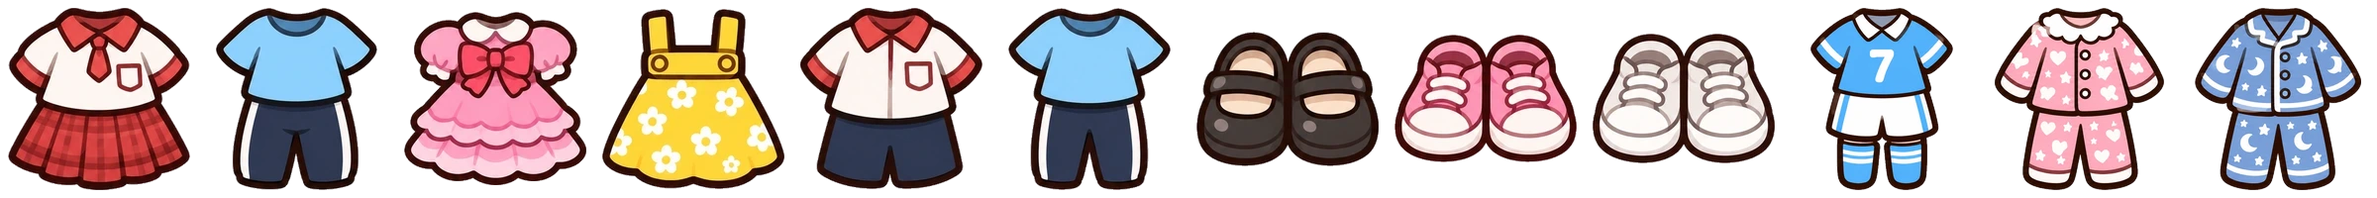
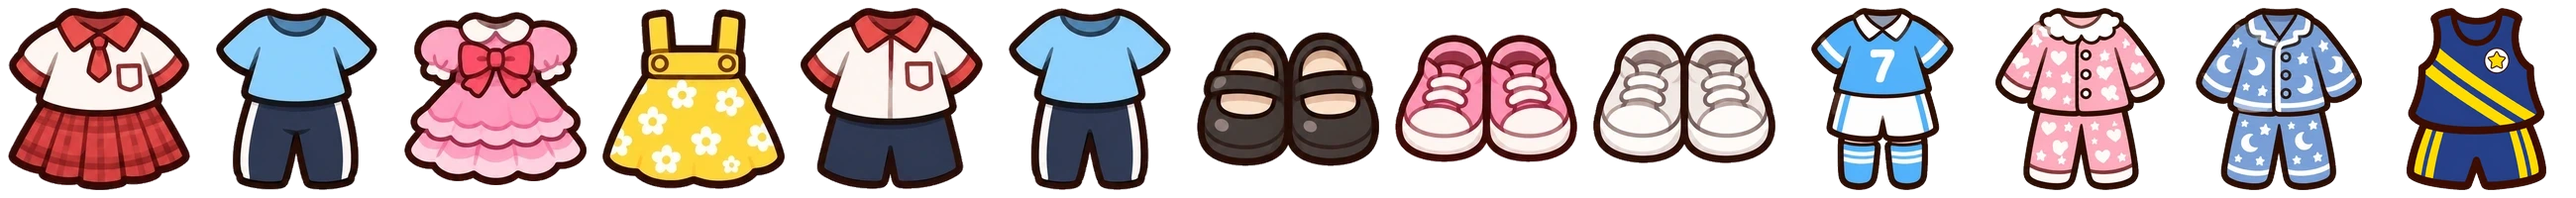
New outfit: girls' gymnastics kit (blue tank with yellow stripes, barefoot), all hairstyles
Claude-Session: https://claude.ai/code/session_01WYXHXwKxHQowMAYmWZLpUL

diff --git a/index.html b/index.html
@@ -372,7 +372,7 @@ document.addEventListener('visibilitychange',()=>{if(document.hidden)window.__hi
 // ---- UI icon set (ui_icons.webp, 18 cells in one row) — emoji are shown until it loads ----
 // bump ASSET_V whenever an icon/emote picture changes, so phones download the new one instead of a cached copy
 var ASSET_V='20261122g';
-/*VER*/var VER={"anchors_girl.json":"a61bb18a","apple-touch-icon.png":"8afecd75","chat_icons.webp":"eef4836c","clean.webp":"40da9286","emotes.webp":"e155c1f5","favicon.png":"ffcd656e","food.webp":"e79c35e3","furn_wardrobe.webp":"66d529f7","ground.webp":"846df7f5","hats.webp":"3bcde764","home_house.webp":"c1874d6b","home_house_s.webp":"7b5eb322","home_yard.webp":"acf49b25","home_yard_s.webp":"25b9ca81","hp_bushL.webp":"32944512","hp_bushR.webp":"5160de6a","hp_dogh.webp":"5476c7b8","hp_gate.webp":"b75aef05","hp_wallD.webp":"6b2f16ac","ice.webp":"9f59ce49","icon192.png":"64c4261d","icon512.png":"559bfbe5","items.webp":"dca2f87e","logo.webp":"80b743a8","logo_s.webp":"2cfc803b","moods.webp":"39f53ba6","pets/alpaca_sheet.webp":"660da134","pets/arctic_fox_sheet.webp":"b3f5f075","pets/axolotl_sheet.webp":"7c90f54d","pets/baby_panda_sheet.webp":"3050fd00","pets/baby_penguin_sheet.webp":"0be125bd","pets/bearded_dragon_sheet.webp":"a33b338f","pets/black_cat_sheet.webp":"df4daea9","pets/budgie_sheet.webp":"af9687c7","pets/calico_cat.webp":"985d1735","pets/calico_cat_sheet.webp":"da3dfdc4","pets/capybara_sheet.webp":"159c59a4","pets/chameleon_sheet.webp":"21b6cb11","pets/chihuahua_sheet.webp":"2b56a953","pets/chinchilla_sheet.webp":"196f06a2","pets/cockatoo_sheet.webp":"0d9c00ba","pets/corgi_sheet.webp":"29f029ee","pets/fennec_fox_sheet.webp":"03314e07","pets/french_bulldog_sheet.webp":"f7703c89","pets/golden_pup_sheet.webp":"7ba0e17a","pets/guinea_pig_sheet.webp":"e88e2be5","pets/hamster_sheet.webp":"e311a06a","pets/hedgehog_sheet.webp":"1a546ae7","pets/holland_lop_sheet.webp":"df3106bb","pets/husky_sheet.webp":"e145a47a","pets/koala_sheet.webp":"b30e68fb","pets/leopard_gecko_sheet.webp":"1153c7bf","pets/macaw_sheet.webp":"987521b4","pets/meerkat_sheet.webp":"9fcec931","pets/mini_pig_sheet.webp":"34883582","pets/orange_cat_sheet.webp":"a0b5c763","pets/otter_sheet.webp":"d64bdee5","pets/owl_fly.webp":"58a75cfa","pets/owl_sheet.webp":"1d3f8e0c","pets/persian_sheet.webp":"c3488f71","pets/pomeranian_sheet.webp":"06d57221","pets/red_panda_sheet.webp":"0c02c808","pets/scottish_fold_sheet.webp":"be89b9fa","pets/sheep_sheet.webp":"4bb9091f","pets/shiba_sheet.webp":"40577f29","pets/sloth.webp":"f60c8a5e","pets/sloth_sheet.webp":"18c21add","pets/snowy_owl_fly.webp":"dfc4612b","pets/snowy_owl_sheet.webp":"ea3517ee","pets/squirrel_sheet.webp":"6f32fea3","pets/sugar_glider_sheet.webp":"1f85556d","pets/tabby_cat_sheet.webp":"c8fea378","pets/thai_pup_sheet.webp":"b6c3519b","pets/turtle_sheet.webp":"6aa14448","pets/white_cat_sheet.webp":"1183e037","school_gate.webp":"4b3af634","school_main.webp":"c1496493","school_wing.webp":"95a3c264","school_wing_left.webp":"39c089cf","sprites/boy_dress_football/act.webp":"94b0b947","sprites/boy_dress_football/down.webp":"a43a9e53","sprites/boy_dress_football/dr.webp":"89cd4a4d","sprites/boy_dress_football/idle.webp":"3cc2e188","sprites/boy_dress_football/right.webp":"cd18aa2c","sprites/boy_dress_football/up.webp":"7013d474","sprites/boy_dress_football/ur.webp":"899248f9","sprites/boy_dress_football_mushroom/act.webp":"544be128","sprites/boy_dress_football_mushroom/down.webp":"dc370a23","sprites/boy_dress_football_mushroom/dr.webp":"6873c7f5","sprites/boy_dress_football_mushroom/idle.webp":"a4cc99b1","sprites/boy_dress_football_mushroom/right.webp":"73478d8a","sprites/boy_dress_football_mushroom/up.webp":"f5e6fc17","sprites/boy_dress_football_mushroom/ur.webp":"72f69a5d","sprites/boy_dress_football_spiky/act.webp":"0b64a86f","sprites/boy_dress_football_spiky/down.webp":"1ba15215","sprites/boy_dress_football_spiky/dr.webp":"6d201da1","sprites/boy_dress_football_spiky/idle.webp":"f7051778","sprites/boy_dress_football_spiky/right.webp":"f62cf71a","sprites/boy_dress_football_spiky/up.webp":"f2da5d33","sprites/boy_dress_football_spiky/ur.webp":"9c000efe","sprites/boy_dress_pajama/act.webp":"91cd443b","sprites/boy_dress_pajama/down.webp":"c05554fd","sprites/boy_dress_pajama/dr.webp":"a3becfd1","sprites/boy_dress_pajama/idle.webp":"3d247613","sprites/boy_dress_pajama/right.webp":"2a2d1811","sprites/boy_dress_pajama/up.webp":"5f0c40b7","sprites/boy_dress_pajama/ur.webp":"525fac6a","sprites/boy_dress_pajama_mushroom/act.webp":"c527d2b3","sprites/boy_dress_pajama_mushroom/down.webp":"bd3afb82","sprites/boy_dress_pajama_mushroom/dr.webp":"7ddefa6d","sprites/boy_dress_pajama_mushroom/idle.webp":"d0ba0ad5","sprites/boy_dress_pajama_mushroom/right.webp":"35d53926","sprites/boy_dress_pajama_mushroom/up.webp":"df64b951","sprites/boy_dress_pajama_mushroom/ur.webp":"341aca78","sprites/boy_dress_pajama_spiky/act.webp":"6490988f","sprites/boy_dress_pajama_spiky/down.webp":"66fb7e2d","sprites/boy_dress_pajama_spiky/dr.webp":"9831c29a","sprites/boy_dress_pajama_spiky/idle.webp":"14aecb10","sprites/boy_dress_pajama_spiky/right.webp":"2047c970","sprites/boy_dress_pajama_spiky/up.webp":"2e8137f6","sprites/boy_dress_pajama_spiky/ur.webp":"aa8c9ba5","sprites/boy_school/act.webp":"6c98d340","sprites/boy_school/down.webp":"c8e165f1","sprites/boy_school/dr.webp":"1e5bba8b","sprites/boy_school/idle.webp":"29fb5e68","sprites/boy_school/right.webp":"443403b0","sprites/boy_school/up.webp":"29288f23","sprites/boy_school/ur.webp":"32867ba4","sprites/boy_school_mushroom/act.webp":"a5b6cacb","sprites/boy_school_mushroom/down.webp":"12d3c8dd","sprites/boy_school_mushroom/dr.webp":"2e261109","sprites/boy_school_mushroom/idle.webp":"ed928290","sprites/boy_school_mushroom/right.webp":"f235e36d","sprites/boy_school_mushroom/up.webp":"042d27f4","sprites/boy_school_mushroom/ur.webp":"3218d4c5","sprites/boy_school_spiky/act.webp":"bc26ba56","sprites/boy_school_spiky/down.webp":"76c42712","sprites/boy_school_spiky/dr.webp":"bffeee5a","sprites/boy_school_spiky/idle.webp":"4478f2ea","sprites/boy_school_spiky/right.webp":"1e7d459e","sprites/boy_school_spiky/up.webp":"99ea5e6b","sprites/boy_school_spiky/ur.webp":"3b65ff3f","sprites/boy_sport/act.webp":"dba0f6bc","sprites/boy_sport/down.webp":"f58f944f","sprites/boy_sport/dr.webp":"3cecf0d9","sprites/boy_sport/idle.webp":"995431f6","sprites/boy_sport/right.webp":"83d32eaf","sprites/boy_sport/up.webp":"da39c524","sprites/boy_sport/ur.webp":"186047f2","sprites/boy_sport_mushroom/act.webp":"c558e928","sprites/boy_sport_mushroom/down.webp":"49800db6","sprites/boy_sport_mushroom/dr.webp":"e7edcac9","sprites/boy_sport_mushroom/idle.webp":"3ccd4cc2","sprites/boy_sport_mushroom/right.webp":"4464f34f","sprites/boy_sport_mushroom/up.webp":"9cadc1a2","sprites/boy_sport_mushroom/ur.webp":"35ed1308","sprites/boy_sport_spiky/act.webp":"ee11820c","sprites/boy_sport_spiky/down.webp":"6abba58a","sprites/boy_sport_spiky/dr.webp":"7f172e95","sprites/boy_sport_spiky/idle.webp":"380f162b","sprites/boy_sport_spiky/right.webp":"3a26df49","sprites/boy_sport_spiky/up.webp":"ef02e34d","sprites/boy_sport_spiky/ur.webp":"dd3b8304","sprites/girl_dress_pajama/act.webp":"cf9f97d6","sprites/girl_dress_pajama/down.webp":"35cc1387","sprites/girl_dress_pajama/dr.webp":"c8c0f74a","sprites/girl_dress_pajama/idle.webp":"0041015b","sprites/girl_dress_pajama/right.webp":"08e8db5e","sprites/girl_dress_pajama/up.webp":"7875dba7","sprites/girl_dress_pajama/ur.webp":"4d01d426","sprites/girl_dress_pajama_bob/act.webp":"d95442af","sprites/girl_dress_pajama_bob/down.webp":"c7f24fd5","sprites/girl_dress_pajama_bob/dr.webp":"feebca95","sprites/girl_dress_pajama_bob/idle.webp":"0167f086","sprites/girl_dress_pajama_bob/right.webp":"3f9af726","sprites/girl_dress_pajama_bob/up.webp":"423d0729","sprites/girl_dress_pajama_bob/ur.webp":"069db268","sprites/girl_dress_pajama_braids/act.webp":"c2f1ec21","sprites/girl_dress_pajama_braids/down.webp":"5c77ac02","sprites/girl_dress_pajama_braids/dr.webp":"af549cb8","sprites/girl_dress_pajama_braids/idle.webp":"8c03b34e","sprites/girl_dress_pajama_braids/right.webp":"c2531a8e","sprites/girl_dress_pajama_braids/up.webp":"51a70dbd","sprites/girl_dress_pajama_braids/ur.webp":"2d2e00b3","sprites/girl_dress_party/act.webp":"9138bef2","sprites/girl_dress_party/down.webp":"25db752a","sprites/girl_dress_party/dr.webp":"54a6d6bf","sprites/girl_dress_party/idle.webp":"53ede582","sprites/girl_dress_party/right.webp":"02fc7947","sprites/girl_dress_party/up.webp":"e228fc55","sprites/girl_dress_party/ur.webp":"470ed06c","sprites/girl_dress_party_bob/act.webp":"0ef8b37f","sprites/girl_dress_party_bob/down.webp":"891f8054","sprites/girl_dress_party_bob/dr.webp":"f067a217","sprites/girl_dress_party_bob/idle.webp":"37191bcb","sprites/girl_dress_party_bob/right.webp":"5ce7bcfd","sprites/girl_dress_party_bob/up.webp":"b691b3cd","sprites/girl_dress_party_bob/ur.webp":"6b19a966","sprites/girl_dress_party_braids/act.webp":"aeb8730e","sprites/girl_dress_party_braids/down.webp":"5e2b808f","sprites/girl_dress_party_braids/dr.webp":"0eadcd39","sprites/girl_dress_party_braids/idle.webp":"6dc51b9b","sprites/girl_dress_party_braids/right.webp":"99e13306","sprites/girl_dress_party_braids/up.webp":"2dd077ae","sprites/girl_dress_party_braids/ur.webp":"9a9a23c3","sprites/girl_dress_sunny/act.webp":"12917a10","sprites/girl_dress_sunny/down.webp":"4d3e47c1","sprites/girl_dress_sunny/dr.webp":"e8b5f47a","sprites/girl_dress_sunny/idle.webp":"69444255","sprites/girl_dress_sunny/right.webp":"bba8e683","sprites/girl_dress_sunny/up.webp":"6c89c294","sprites/girl_dress_sunny/ur.webp":"5be1f39a","sprites/girl_dress_sunny_bob/act.webp":"4d13130a","sprites/girl_dress_sunny_bob/down.webp":"48e1ee29","sprites/girl_dress_sunny_bob/dr.webp":"9464afe0","sprites/girl_dress_sunny_bob/idle.webp":"3110d282","sprites/girl_dress_sunny_bob/right.webp":"ede90b8b","sprites/girl_dress_sunny_bob/up.webp":"cd3d1387","sprites/girl_dress_sunny_bob/ur.webp":"d0bde949","sprites/girl_dress_sunny_braids/act.webp":"d49c4b14","sprites/girl_dress_sunny_braids/down.webp":"d8a7e6a6","sprites/girl_dress_sunny_braids/dr.webp":"d512d145","sprites/girl_dress_sunny_braids/idle.webp":"4dbc67db","sprites/girl_dress_sunny_braids/right.webp":"d16d2c22","sprites/girl_dress_sunny_braids/up.webp":"83153359","sprites/girl_dress_sunny_braids/ur.webp":"b50d119d","sprites/girl_school/act.webp":"409a8ab3","sprites/girl_school/down.webp":"2a09fcfd","sprites/girl_school/dr.webp":"0db9d4a6","sprites/girl_school/idle.webp":"f8ec4257","sprites/girl_school/right.webp":"444f8451","sprites/girl_school/up.webp":"1f72115e","sprites/girl_school/ur.webp":"376d1a00","sprites/girl_school_bob/act.webp":"67c24fc5","sprites/girl_school_bob/down.webp":"0513d14c","sprites/girl_school_bob/dr.webp":"1c7fc96b","sprites/girl_school_bob/idle.webp":"aa9332c0","sprites/girl_school_bob/right.webp":"5f0b3252","sprites/girl_school_bob/up.webp":"edea434c","sprites/girl_school_bob/ur.webp":"1548f603","sprites/girl_school_braids/act.webp":"85e148b0","sprites/girl_school_braids/down.webp":"c5799d83","sprites/girl_school_braids/dr.webp":"8b9da624","sprites/girl_school_braids/idle.webp":"14535324","sprites/girl_school_braids/right.webp":"9678497b","sprites/girl_school_braids/up.webp":"66e07c22","sprites/girl_school_braids/ur.webp":"1b568d69","sprites/girl_sport/act.webp":"bcd79e49","sprites/girl_sport/down.webp":"81891f23","sprites/girl_sport/dr.webp":"ce4e79a4","sprites/girl_sport/idle.webp":"af69343d","sprites/girl_sport/right.webp":"17d5242a","sprites/girl_sport/up.webp":"95c59fe5","sprites/girl_sport/ur.webp":"e104f775","sprites/girl_sport_bob/act.webp":"8cf50b81","sprites/girl_sport_bob/down.webp":"87df6564","sprites/girl_sport_bob/dr.webp":"e53a6deb","sprites/girl_sport_bob/idle.webp":"f35cc57c","sprites/girl_sport_bob/right.webp":"a5050c56","sprites/girl_sport_bob/up.webp":"73a5a7f8","sprites/girl_sport_bob/ur.webp":"5c597d21","sprites/girl_sport_braids/act.webp":"f96fc655","sprites/girl_sport_braids/down.webp":"c911017a","sprites/girl_sport_braids/dr.webp":"5b3ba77c","sprites/girl_sport_braids/idle.webp":"23b6d6b9","sprites/girl_sport_braids/right.webp":"7feeaf72","sprites/girl_sport_braids/up.webp":"059286f8","sprites/girl_sport_braids/ur.webp":"3c0716ff","sprites/zombie_boy/bite.webp":"ba078b4f","sprites/zombie_boy/down.webp":"fc0185ae","sprites/zombie_boy/dr.webp":"1fe36071","sprites/zombie_boy/idle.webp":"92e12d23","sprites/zombie_boy/right.webp":"53cbf802","sprites/zombie_boy/up.webp":"bf41f341","sprites/zombie_boy/ur.webp":"35cbe2c0","sprites/zombie_girl/bite.webp":"b56c0f9e","sprites/zombie_girl/down.webp":"c0623cf5","sprites/zombie_girl/dr.webp":"e186b369","sprites/zombie_girl/idle.webp":"34c89034","sprites/zombie_girl/right.webp":"e5af341e","sprites/zombie_girl/up.webp":"bd4b2779","sprites/zombie_girl/ur.webp":"679313ff","ui_icons.webp":"4e9aac93","ui_icons2.webp":"a81910d9","ui_icons3.webp":"1fbdf734","vercel.json":"56aa2b42"};/*END*/
+/*VER*/var VER={"anchors_girl.json":"15332d8e","apple-touch-icon.png":"8afecd75","chat_icons.webp":"eef4836c","clean.webp":"40da9286","emotes.webp":"e155c1f5","favicon.png":"ffcd656e","food.webp":"e79c35e3","furn_wardrobe.webp":"66d529f7","ground.webp":"846df7f5","hats.webp":"3bcde764","home_house.webp":"c1874d6b","home_house_s.webp":"7b5eb322","home_yard.webp":"acf49b25","home_yard_s.webp":"25b9ca81","hp_bushL.webp":"32944512","hp_bushR.webp":"5160de6a","hp_dogh.webp":"5476c7b8","hp_gate.webp":"b75aef05","hp_wallD.webp":"6b2f16ac","ice.webp":"9f59ce49","icon192.png":"64c4261d","icon512.png":"559bfbe5","items.webp":"e63906d7","logo.webp":"80b743a8","logo_s.webp":"2cfc803b","moods.webp":"39f53ba6","pets/alpaca_sheet.webp":"660da134","pets/arctic_fox_sheet.webp":"b3f5f075","pets/axolotl_sheet.webp":"7c90f54d","pets/baby_panda_sheet.webp":"3050fd00","pets/baby_penguin_sheet.webp":"0be125bd","pets/bearded_dragon_sheet.webp":"a33b338f","pets/black_cat_sheet.webp":"df4daea9","pets/budgie_sheet.webp":"af9687c7","pets/calico_cat.webp":"985d1735","pets/calico_cat_sheet.webp":"da3dfdc4","pets/capybara_sheet.webp":"159c59a4","pets/chameleon_sheet.webp":"21b6cb11","pets/chihuahua_sheet.webp":"2b56a953","pets/chinchilla_sheet.webp":"196f06a2","pets/cockatoo_sheet.webp":"0d9c00ba","pets/corgi_sheet.webp":"29f029ee","pets/fennec_fox_sheet.webp":"03314e07","pets/french_bulldog_sheet.webp":"f7703c89","pets/golden_pup_sheet.webp":"7ba0e17a","pets/guinea_pig_sheet.webp":"e88e2be5","pets/hamster_sheet.webp":"e311a06a","pets/hedgehog_sheet.webp":"1a546ae7","pets/holland_lop_sheet.webp":"df3106bb","pets/husky_sheet.webp":"e145a47a","pets/koala_sheet.webp":"b30e68fb","pets/leopard_gecko_sheet.webp":"1153c7bf","pets/macaw_sheet.webp":"987521b4","pets/meerkat_sheet.webp":"9fcec931","pets/mini_pig_sheet.webp":"34883582","pets/orange_cat_sheet.webp":"a0b5c763","pets/otter_sheet.webp":"d64bdee5","pets/owl_fly.webp":"58a75cfa","pets/owl_sheet.webp":"1d3f8e0c","pets/persian_sheet.webp":"c3488f71","pets/pomeranian_sheet.webp":"06d57221","pets/red_panda_sheet.webp":"0c02c808","pets/scottish_fold_sheet.webp":"be89b9fa","pets/sheep_sheet.webp":"4bb9091f","pets/shiba_sheet.webp":"40577f29","pets/sloth.webp":"f60c8a5e","pets/sloth_sheet.webp":"18c21add","pets/snowy_owl_fly.webp":"dfc4612b","pets/snowy_owl_sheet.webp":"ea3517ee","pets/squirrel_sheet.webp":"6f32fea3","pets/sugar_glider_sheet.webp":"1f85556d","pets/tabby_cat_sheet.webp":"c8fea378","pets/thai_pup_sheet.webp":"b6c3519b","pets/turtle_sheet.webp":"6aa14448","pets/white_cat_sheet.webp":"1183e037","school_gate.webp":"4b3af634","school_main.webp":"c1496493","school_wing.webp":"95a3c264","school_wing_left.webp":"39c089cf","sprites/boy_dress_football/act.webp":"94b0b947","sprites/boy_dress_football/down.webp":"a43a9e53","sprites/boy_dress_football/dr.webp":"89cd4a4d","sprites/boy_dress_football/idle.webp":"3cc2e188","sprites/boy_dress_football/right.webp":"cd18aa2c","sprites/boy_dress_football/up.webp":"7013d474","sprites/boy_dress_football/ur.webp":"899248f9","sprites/boy_dress_football_mushroom/act.webp":"544be128","sprites/boy_dress_football_mushroom/down.webp":"dc370a23","sprites/boy_dress_football_mushroom/dr.webp":"6873c7f5","sprites/boy_dress_football_mushroom/idle.webp":"a4cc99b1","sprites/boy_dress_football_mushroom/right.webp":"73478d8a","sprites/boy_dress_football_mushroom/up.webp":"f5e6fc17","sprites/boy_dress_football_mushroom/ur.webp":"72f69a5d","sprites/boy_dress_football_spiky/act.webp":"0b64a86f","sprites/boy_dress_football_spiky/down.webp":"1ba15215","sprites/boy_dress_football_spiky/dr.webp":"6d201da1","sprites/boy_dress_football_spiky/idle.webp":"f7051778","sprites/boy_dress_football_spiky/right.webp":"f62cf71a","sprites/boy_dress_football_spiky/up.webp":"f2da5d33","sprites/boy_dress_football_spiky/ur.webp":"9c000efe","sprites/boy_dress_pajama/act.webp":"91cd443b","sprites/boy_dress_pajama/down.webp":"c05554fd","sprites/boy_dress_pajama/dr.webp":"a3becfd1","sprites/boy_dress_pajama/idle.webp":"3d247613","sprites/boy_dress_pajama/right.webp":"2a2d1811","sprites/boy_dress_pajama/up.webp":"5f0c40b7","sprites/boy_dress_pajama/ur.webp":"525fac6a","sprites/boy_dress_pajama_mushroom/act.webp":"c527d2b3","sprites/boy_dress_pajama_mushroom/down.webp":"bd3afb82","sprites/boy_dress_pajama_mushroom/dr.webp":"7ddefa6d","sprites/boy_dress_pajama_mushroom/idle.webp":"d0ba0ad5","sprites/boy_dress_pajama_mushroom/right.webp":"35d53926","sprites/boy_dress_pajama_mushroom/up.webp":"df64b951","sprites/boy_dress_pajama_mushroom/ur.webp":"341aca78","sprites/boy_dress_pajama_spiky/act.webp":"6490988f","sprites/boy_dress_pajama_spiky/down.webp":"66fb7e2d","sprites/boy_dress_pajama_spiky/dr.webp":"9831c29a","sprites/boy_dress_pajama_spiky/idle.webp":"14aecb10","sprites/boy_dress_pajama_spiky/right.webp":"2047c970","sprites/boy_dress_pajama_spiky/up.webp":"2e8137f6","sprites/boy_dress_pajama_spiky/ur.webp":"aa8c9ba5","sprites/boy_school/act.webp":"6c98d340","sprites/boy_school/down.webp":"c8e165f1","sprites/boy_school/dr.webp":"1e5bba8b","sprites/boy_school/idle.webp":"29fb5e68","sprites/boy_school/right.webp":"443403b0","sprites/boy_school/up.webp":"29288f23","sprites/boy_school/ur.webp":"32867ba4","sprites/boy_school_mushroom/act.webp":"a5b6cacb","sprites/boy_school_mushroom/down.webp":"12d3c8dd","sprites/boy_school_mushroom/dr.webp":"2e261109","sprites/boy_school_mushroom/idle.webp":"ed928290","sprites/boy_school_mushroom/right.webp":"f235e36d","sprites/boy_school_mushroom/up.webp":"042d27f4","sprites/boy_school_mushroom/ur.webp":"3218d4c5","sprites/boy_school_spiky/act.webp":"bc26ba56","sprites/boy_school_spiky/down.webp":"76c42712","sprites/boy_school_spiky/dr.webp":"bffeee5a","sprites/boy_school_spiky/idle.webp":"4478f2ea","sprites/boy_school_spiky/right.webp":"1e7d459e","sprites/boy_school_spiky/up.webp":"99ea5e6b","sprites/boy_school_spiky/ur.webp":"3b65ff3f","sprites/boy_sport/act.webp":"dba0f6bc","sprites/boy_sport/down.webp":"f58f944f","sprites/boy_sport/dr.webp":"3cecf0d9","sprites/boy_sport/idle.webp":"995431f6","sprites/boy_sport/right.webp":"83d32eaf","sprites/boy_sport/up.webp":"da39c524","sprites/boy_sport/ur.webp":"186047f2","sprites/boy_sport_mushroom/act.webp":"c558e928","sprites/boy_sport_mushroom/down.webp":"49800db6","sprites/boy_sport_mushroom/dr.webp":"e7edcac9","sprites/boy_sport_mushroom/idle.webp":"3ccd4cc2","sprites/boy_sport_mushroom/right.webp":"4464f34f","sprites/boy_sport_mushroom/up.webp":"9cadc1a2","sprites/boy_sport_mushroom/ur.webp":"35ed1308","sprites/boy_sport_spiky/act.webp":"ee11820c","sprites/boy_sport_spiky/down.webp":"6abba58a","sprites/boy_sport_spiky/dr.webp":"7f172e95","sprites/boy_sport_spiky/idle.webp":"380f162b","sprites/boy_sport_spiky/right.webp":"3a26df49","sprites/boy_sport_spiky/up.webp":"ef02e34d","sprites/boy_sport_spiky/ur.webp":"dd3b8304","sprites/girl_dress_gym/act.webp":"258704e5","sprites/girl_dress_gym/down.webp":"e5d3985f","sprites/girl_dress_gym/dr.webp":"e118f356","sprites/girl_dress_gym/idle.webp":"1f00cf9c","sprites/girl_dress_gym/right.webp":"afa1dff9","sprites/girl_dress_gym/up.webp":"01694d97","sprites/girl_dress_gym/ur.webp":"3457bd54","sprites/girl_dress_gym_bob/act.webp":"bf7e327b","sprites/girl_dress_gym_bob/down.webp":"2032b712","sprites/girl_dress_gym_bob/dr.webp":"f517f8f8","sprites/girl_dress_gym_bob/idle.webp":"334365f0","sprites/girl_dress_gym_bob/right.webp":"c8ff2e2a","sprites/girl_dress_gym_bob/up.webp":"6b3f33a7","sprites/girl_dress_gym_bob/ur.webp":"749a1261","sprites/girl_dress_gym_braids/act.webp":"337f67fe","sprites/girl_dress_gym_braids/down.webp":"743d84d6","sprites/girl_dress_gym_braids/dr.webp":"873c374c","sprites/girl_dress_gym_braids/idle.webp":"3667042b","sprites/girl_dress_gym_braids/right.webp":"39dea943","sprites/girl_dress_gym_braids/up.webp":"3955be1f","sprites/girl_dress_gym_braids/ur.webp":"9f772b12","sprites/girl_dress_pajama/act.webp":"cf9f97d6","sprites/girl_dress_pajama/down.webp":"35cc1387","sprites/girl_dress_pajama/dr.webp":"c8c0f74a","sprites/girl_dress_pajama/idle.webp":"0041015b","sprites/girl_dress_pajama/right.webp":"08e8db5e","sprites/girl_dress_pajama/up.webp":"7875dba7","sprites/girl_dress_pajama/ur.webp":"4d01d426","sprites/girl_dress_pajama_bob/act.webp":"d95442af","sprites/girl_dress_pajama_bob/down.webp":"c7f24fd5","sprites/girl_dress_pajama_bob/dr.webp":"feebca95","sprites/girl_dress_pajama_bob/idle.webp":"0167f086","sprites/girl_dress_pajama_bob/right.webp":"3f9af726","sprites/girl_dress_pajama_bob/up.webp":"423d0729","sprites/girl_dress_pajama_bob/ur.webp":"069db268","sprites/girl_dress_pajama_braids/act.webp":"c2f1ec21","sprites/girl_dress_pajama_braids/down.webp":"5c77ac02","sprites/girl_dress_pajama_braids/dr.webp":"af549cb8","sprites/girl_dress_pajama_braids/idle.webp":"8c03b34e","sprites/girl_dress_pajama_braids/right.webp":"c2531a8e","sprites/girl_dress_pajama_braids/up.webp":"51a70dbd","sprites/girl_dress_pajama_braids/ur.webp":"2d2e00b3","sprites/girl_dress_party/act.webp":"9138bef2","sprites/girl_dress_party/down.webp":"25db752a","sprites/girl_dress_party/dr.webp":"54a6d6bf","sprites/girl_dress_party/idle.webp":"53ede582","sprites/girl_dress_party/right.webp":"02fc7947","sprites/girl_dress_party/up.webp":"e228fc55","sprites/girl_dress_party/ur.webp":"470ed06c","sprites/girl_dress_party_bob/act.webp":"0ef8b37f","sprites/girl_dress_party_bob/down.webp":"891f8054","sprites/girl_dress_party_bob/dr.webp":"f067a217","sprites/girl_dress_party_bob/idle.webp":"37191bcb","sprites/girl_dress_party_bob/right.webp":"5ce7bcfd","sprites/girl_dress_party_bob/up.webp":"b691b3cd","sprites/girl_dress_party_bob/ur.webp":"6b19a966","sprites/girl_dress_party_braids/act.webp":"aeb8730e","sprites/girl_dress_party_braids/down.webp":"5e2b808f","sprites/girl_dress_party_braids/dr.webp":"0eadcd39","sprites/girl_dress_party_braids/idle.webp":"6dc51b9b","sprites/girl_dress_party_braids/right.webp":"99e13306","sprites/girl_dress_party_braids/up.webp":"2dd077ae","sprites/girl_dress_party_braids/ur.webp":"9a9a23c3","sprites/girl_dress_sunny/act.webp":"12917a10","sprites/girl_dress_sunny/down.webp":"4d3e47c1","sprites/girl_dress_sunny/dr.webp":"e8b5f47a","sprites/girl_dress_sunny/idle.webp":"69444255","sprites/girl_dress_sunny/right.webp":"bba8e683","sprites/girl_dress_sunny/up.webp":"6c89c294","sprites/girl_dress_sunny/ur.webp":"5be1f39a","sprites/girl_dress_sunny_bob/act.webp":"4d13130a","sprites/girl_dress_sunny_bob/down.webp":"48e1ee29","sprites/girl_dress_sunny_bob/dr.webp":"9464afe0","sprites/girl_dress_sunny_bob/idle.webp":"3110d282","sprites/girl_dress_sunny_bob/right.webp":"ede90b8b","sprites/girl_dress_sunny_bob/up.webp":"cd3d1387","sprites/girl_dress_sunny_bob/ur.webp":"d0bde949","sprites/girl_dress_sunny_braids/act.webp":"d49c4b14","sprites/girl_dress_sunny_braids/down.webp":"d8a7e6a6","sprites/girl_dress_sunny_braids/dr.webp":"d512d145","sprites/girl_dress_sunny_braids/idle.webp":"4dbc67db","sprites/girl_dress_sunny_braids/right.webp":"d16d2c22","sprites/girl_dress_sunny_braids/up.webp":"83153359","sprites/girl_dress_sunny_braids/ur.webp":"b50d119d","sprites/girl_school/act.webp":"409a8ab3","sprites/girl_school/down.webp":"2a09fcfd","sprites/girl_school/dr.webp":"0db9d4a6","sprites/girl_school/idle.webp":"f8ec4257","sprites/girl_school/right.webp":"444f8451","sprites/girl_school/up.webp":"1f72115e","sprites/girl_school/ur.webp":"376d1a00","sprites/girl_school_bob/act.webp":"67c24fc5","sprites/girl_school_bob/down.webp":"0513d14c","sprites/girl_school_bob/dr.webp":"1c7fc96b","sprites/girl_school_bob/idle.webp":"aa9332c0","sprites/girl_school_bob/right.webp":"5f0b3252","sprites/girl_school_bob/up.webp":"edea434c","sprites/girl_school_bob/ur.webp":"1548f603","sprites/girl_school_braids/act.webp":"85e148b0","sprites/girl_school_braids/down.webp":"c5799d83","sprites/girl_school_braids/dr.webp":"8b9da624","sprites/girl_school_braids/idle.webp":"14535324","sprites/girl_school_braids/right.webp":"9678497b","sprites/girl_school_braids/up.webp":"66e07c22","sprites/girl_school_braids/ur.webp":"1b568d69","sprites/girl_sport/act.webp":"bcd79e49","sprites/girl_sport/down.webp":"81891f23","sprites/girl_sport/dr.webp":"ce4e79a4","sprites/girl_sport/idle.webp":"af69343d","sprites/girl_sport/right.webp":"17d5242a","sprites/girl_sport/up.webp":"95c59fe5","sprites/girl_sport/ur.webp":"e104f775","sprites/girl_sport_bob/act.webp":"8cf50b81","sprites/girl_sport_bob/down.webp":"87df6564","sprites/girl_sport_bob/dr.webp":"e53a6deb","sprites/girl_sport_bob/idle.webp":"f35cc57c","sprites/girl_sport_bob/right.webp":"a5050c56","sprites/girl_sport_bob/up.webp":"73a5a7f8","sprites/girl_sport_bob/ur.webp":"5c597d21","sprites/girl_sport_braids/act.webp":"f96fc655","sprites/girl_sport_braids/down.webp":"c911017a","sprites/girl_sport_braids/dr.webp":"5b3ba77c","sprites/girl_sport_braids/idle.webp":"23b6d6b9","sprites/girl_sport_braids/right.webp":"7feeaf72","sprites/girl_sport_braids/up.webp":"059286f8","sprites/girl_sport_braids/ur.webp":"3c0716ff","sprites/zombie_boy/bite.webp":"ba078b4f","sprites/zombie_boy/down.webp":"fc0185ae","sprites/zombie_boy/dr.webp":"1fe36071","sprites/zombie_boy/idle.webp":"92e12d23","sprites/zombie_boy/right.webp":"53cbf802","sprites/zombie_boy/up.webp":"bf41f341","sprites/zombie_boy/ur.webp":"35cbe2c0","sprites/zombie_girl/bite.webp":"b56c0f9e","sprites/zombie_girl/down.webp":"c0623cf5","sprites/zombie_girl/dr.webp":"e186b369","sprites/zombie_girl/idle.webp":"34c89034","sprites/zombie_girl/right.webp":"e5af341e","sprites/zombie_girl/up.webp":"bd4b2779","sprites/zombie_girl/ur.webp":"679313ff","ui_icons.webp":"4e9aac93","ui_icons2.webp":"a81910d9","ui_icons3.webp":"1fbdf734","vercel.json":"56aa2b42"};/*END*/
 function vq(p){return p+'?v='+(VER[p]||ASSET_V);}   // per-file version: unchanged pictures stay in the phone's cache
 const IC_N=['logo','pad','freeze','hide','zombie','fire','flash','run','shirt','gear','globe','trophy','girl','boy','jump','tag','logout','hello'];
 const IC={},IC_C={};
@@ -564,7 +564,7 @@ const GENDERS = {
   girl:{name:'Girl', hairs:[['ponytail','Ponytail'],['bob','Bob'],['braids','Braids']]},
   boy: {name:'Boy',  hairs:[['short','Short'],['spiky','Spiky'],['mushroom','Mushroom']]},
 };
-const OUTFITS = {school:{name:'School'}, sport:{name:'Sports', sport:true}, party:{name:'Party dress',only:'girl',dress:1}, sunny:{name:'Sundress',only:'girl',dress:1}, football:{name:'Football',only:'boy',dress:1,sport:true}, pajama:{name:'Pajamas',dress:1}};
+const OUTFITS = {school:{name:'School'}, sport:{name:'Sports', sport:true}, party:{name:'Party dress',only:'girl',dress:1}, sunny:{name:'Sundress',only:'girl',dress:1}, football:{name:'Football',only:'boy',dress:1,sport:true}, pajama:{name:'Pajamas',dress:1}, gym:{name:'Gymnastics',only:'girl',dress:1}};
 const FILES = {idle:'idle.webp',right:'right.webp',down:'down.webp',up:'up.webp',downright:'dr.webp',upright:'ur.webp'};
 const HOUSE = {blue:{label:'Blue',css:'#3fa9f5'}, red:{label:'Red',css:'#e8483f',h:358,s:.9,dl:-.12}, yellow:{label:'Yellow',css:'#f5c518',h:50,s:1,dl:-.02}, green:{label:'Green',css:'#3cb54a',h:128,s:.62,dl:-.06}};
 const lookPath=(g,o,h)=>OUTFITS[o].dress?`sprites/${g}_dress_${o}${h===GENDERS[g].hairs[0][0]?'':'_'+h}/`:h===GENDERS[g].hairs[0][0]?`sprites/${g}_${o}/`:`sprites/${g}_${o}_${h}/`;
@@ -621,7 +621,7 @@ let ANCH=null;fetch(vq('anchors_girl.json')).then(r=>r.json()).then(j=>{ANCH=j;}
 const HAT_IMG=new Image();HAT_IMG.src=vq('hats.webp');
 // item pictures for the Dress-up panel: 9 cells of 200px (6 outfits, 3 shoes)
 const ITEM_IMG=new Image();ITEM_IMG.src=vq('items.webp');ITEM_IMG.onload=()=>{try{if(document.querySelector('#wearPick'))buildPicker();}catch(e){}};
-const ITEM_CELL={girl_school:0,girl_sport:1,girl_party:2,girl_sunny:3,boy_school:4,boy_sport:5,black:6,pink:7,white:8,boy_football:9,girl_pajama:10,boy_pajama:11};
+const ITEM_CELL={girl_school:0,girl_sport:1,girl_party:2,girl_sunny:3,boy_school:4,boy_sport:5,black:6,pink:7,white:8,boy_football:9,girl_pajama:10,boy_pajama:11,girl_gym:12};
 const SHEET_OF={idle:'idle',act:'act',right:'right',down:'down',up:'up',downright:'dr',upright:'ur'};
 const IDLE_VIEW=['right','down','up','dr','ur'];
 // hat size / place per view: width, x shift from head centre, how far the hat bottom goes below the top of the hair
